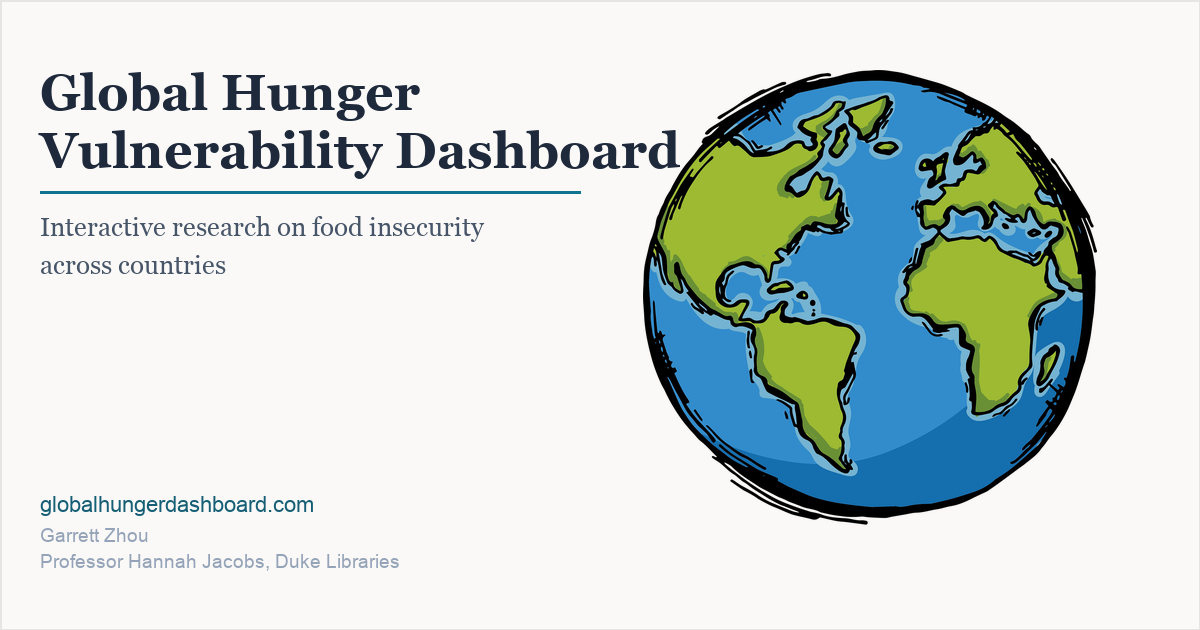
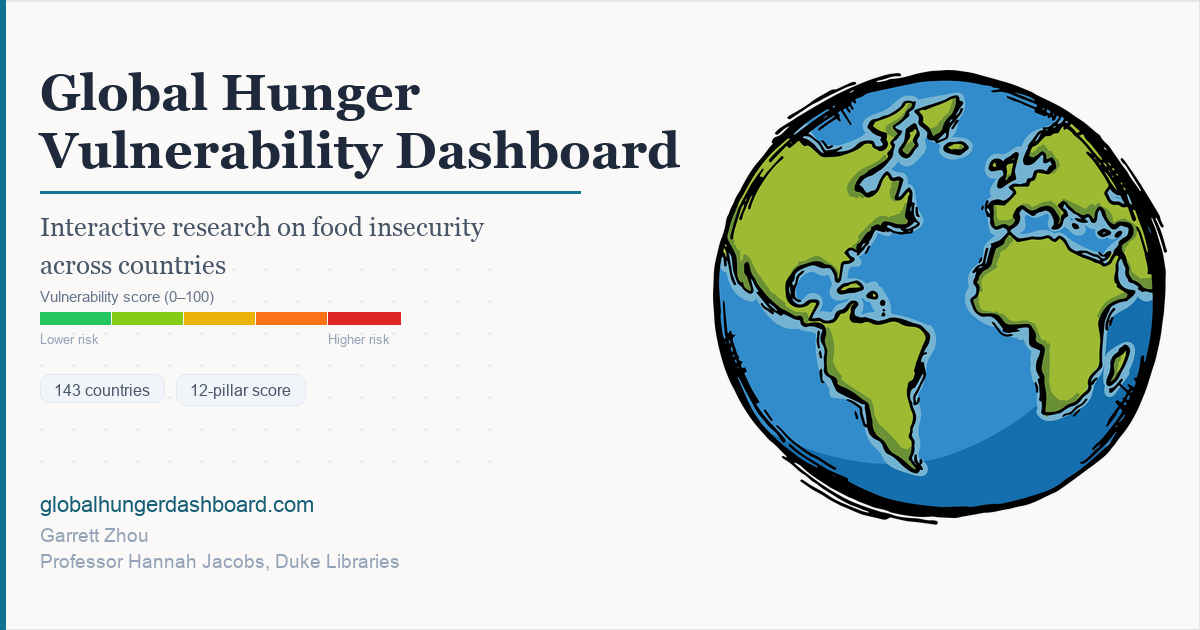
Shift globe right and add subtle research accents to OG preview.
Add vulnerability scale bar, stat chips, dot grid, and left accent to
fill whitespace without crowding the layout.

Changed region(s): [[0.5242, 0.0905, 0.9867, 0.8444], [0.0, 0.0, 0.3392, 1.0], [0.1542, 0.6032, 0.2467, 0.6333]]

diff --git a/www/landing.html b/www/landing.html
@@ -12,7 +12,7 @@
   <meta property="og:url" content="https://globalhungerdashboard.com/assets/landing.html">
   <meta property="og:title" content="Global Hunger Vulnerability Dashboard">
   <meta property="og:description" content="Interactive global hunger vulnerability map with country profiles, undernourishment data, and climate risk indicators.">
-  <meta property="og:image" content="https://globalhungerdashboard.com/assets/og-social-preview.png?v=5">
+  <meta property="og:image" content="https://globalhungerdashboard.com/assets/og-social-preview.png?v=6">
   <meta property="og:image:width" content="1200">
   <meta property="og:image:height" content="630">
   <meta property="og:image:alt" content="Global Hunger Vulnerability Dashboard — interactive food security map and country profiles">
@@ -21,7 +21,7 @@
   <meta name="twitter:card" content="summary_large_image">
   <meta name="twitter:title" content="Global Hunger Vulnerability Dashboard">
   <meta name="twitter:description" content="Interactive global hunger vulnerability map with country profiles and food security indicators.">
-  <meta name="twitter:image" content="https://globalhungerdashboard.com/assets/og-social-preview.png?v=5">
+  <meta name="twitter:image" content="https://globalhungerdashboard.com/assets/og-social-preview.png?v=6">
 
   <script type="application/ld+json">
   {

diff --git a/scripts/generate_og_preview.py b/scripts/generate_og_preview.py
@@ -17,6 +17,7 @@ ACCENT = "#0e7490"
 ACCENT_DARK = "#155e75"
 PAPER = "#faf9f7"
 PAPER_EDGE = "#e7e5e4"
+SCALE = ["#22c55e", "#84cc16", "#eab308", "#f97316", "#dc2626"]
 
 MARGIN_LEFT = 40
 
@@ -47,6 +48,48 @@ def load_font(size, style="regular"):
     return ImageFont.load_default()
 
 
+def draw_left_accent(draw):
+    draw.rectangle((0, 0, 5, H), fill=ACCENT)
+
+
+def draw_subtle_grid(draw):
+    """Notebook-style dot grid in the lower-left empty area."""
+    for x in range(MARGIN_LEFT, 520, 32):
+        for y in range(268, 470, 32):
+            draw.ellipse((x, y, x + 2, y + 2), fill="#e2e8f0")
+
+
+def draw_vulnerability_bar(draw, x, y, width):
+    label_font = load_font(15, "sans")
+    tick_font = load_font(13, "sans")
+    draw.text((x, y - 24), "Vulnerability score (0–100)", font=label_font, fill="#64748b")
+
+    seg_w = width // len(SCALE)
+    bar_h = 12
+    for i, color in enumerate(SCALE):
+        left = x + i * seg_w
+        right = left + seg_w - (2 if i < len(SCALE) - 1 else 0)
+        draw.rectangle((left, y, right, y + bar_h), fill=color)
+
+    draw.text((x, y + bar_h + 8), "Lower risk", font=tick_font, fill="#94a3b8")
+    draw.text((x + width - 72, y + bar_h + 8), "Higher risk", font=tick_font, fill="#94a3b8")
+
+
+def draw_stat_chip(draw, x, y, text, font):
+    bbox = draw.textbbox((0, 0), text, font=font)
+    pad_x, pad_y = 14, 8
+    w = bbox[2] - bbox[0] + pad_x * 2
+    h = bbox[3] - bbox[1] + pad_y * 2
+    draw.rounded_rectangle((x, y, x + w, y + h), radius=10, outline="#e2e8f0", fill="#f1f5f9")
+    draw.text((x + pad_x, y + pad_y - 1), text, font=font, fill=MUTED)
+    return w
+
+
+def draw_faint_connector(draw):
+    """Soft curve linking text block to globe."""
+    draw.arc((520, 180, 900, 520), 300, 30, fill="#cbd5e1", width=2)
+
+
 def paste_world_globe(img, cx, cy, height=470):
     if not WORLD_GLOBE.exists():
         return
@@ -64,8 +107,11 @@ def main():
     draw = ImageDraw.Draw(img)
 
     draw.rectangle((0, 0, W, H), outline=PAPER_EDGE, width=2)
+    draw_left_accent(draw)
+    draw_subtle_grid(draw)
+    draw_faint_connector(draw)
 
-    paste_world_globe(img, cx=870, cy=305, height=470)
+    paste_world_globe(img, cx=940, cy=305, height=470)
     draw = ImageDraw.Draw(img)
 
     title_x = MARGIN_LEFT
@@ -74,6 +120,7 @@ def main():
     sub_font = load_font(26, "serif")
     url_font = load_font(22, "sans")
     credit_font = load_font(19, "sans")
+    chip_font = load_font(16, "sans")
 
     draw.text((title_x, title_y), "Global Hunger", font=title_font, fill=INK)
     draw.text((title_x, title_y + 58), "Vulnerability Dashboard", font=title_font, fill=INK)
@@ -91,6 +138,13 @@ def main():
         font=sub_font,
         fill=MUTED,
     )
+
+    draw_vulnerability_bar(draw, title_x, title_y + 248, width=360)
+
+    chip_y = title_y + 310
+    chip_x = title_x
+    chip_x += draw_stat_chip(draw, chip_x, chip_y, "143 countries", chip_font) + 12
+    draw_stat_chip(draw, chip_x, chip_y, "12-pillar score", chip_font)
 
     draw.text((MARGIN_LEFT, 492), "globalhungerdashboard.com", font=url_font, fill=ACCENT_DARK)
     draw.text((MARGIN_LEFT, 524), "Garrett Zhou", font=credit_font, fill="#94a3b8")
